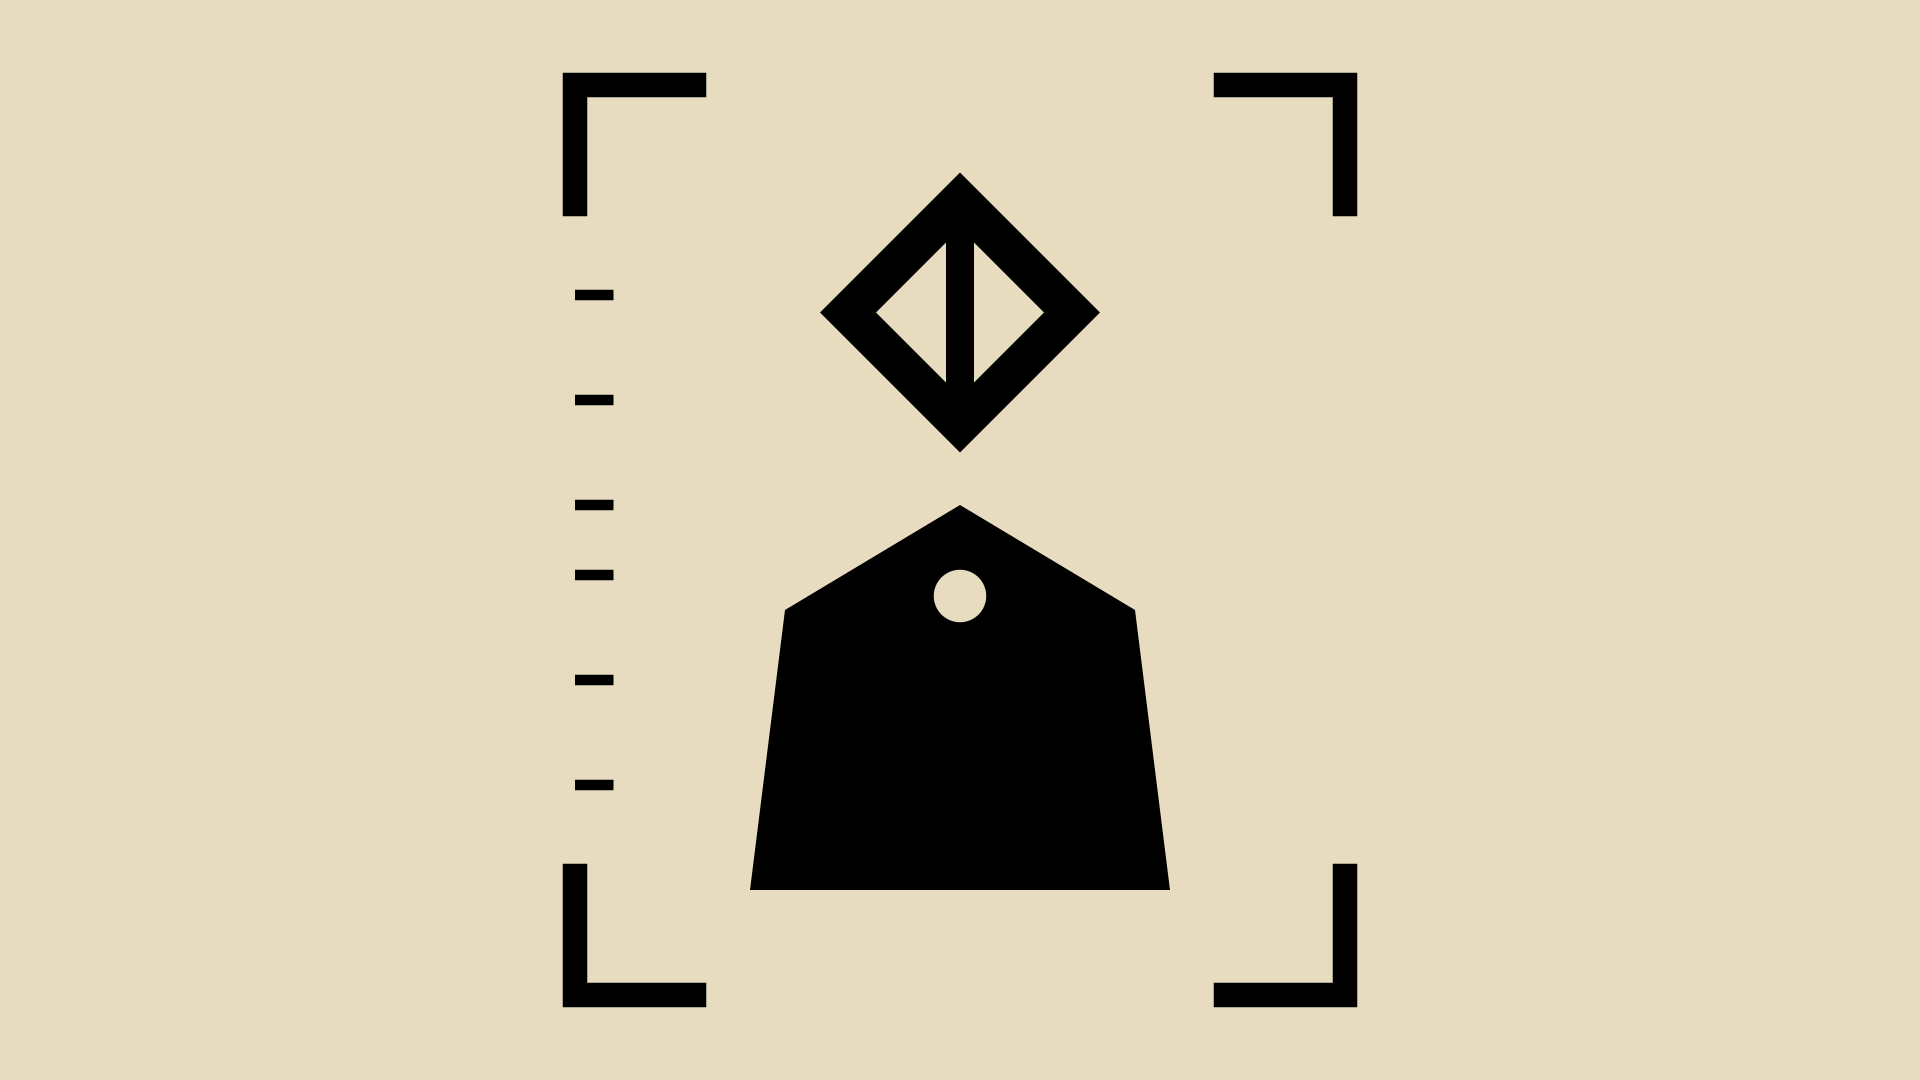
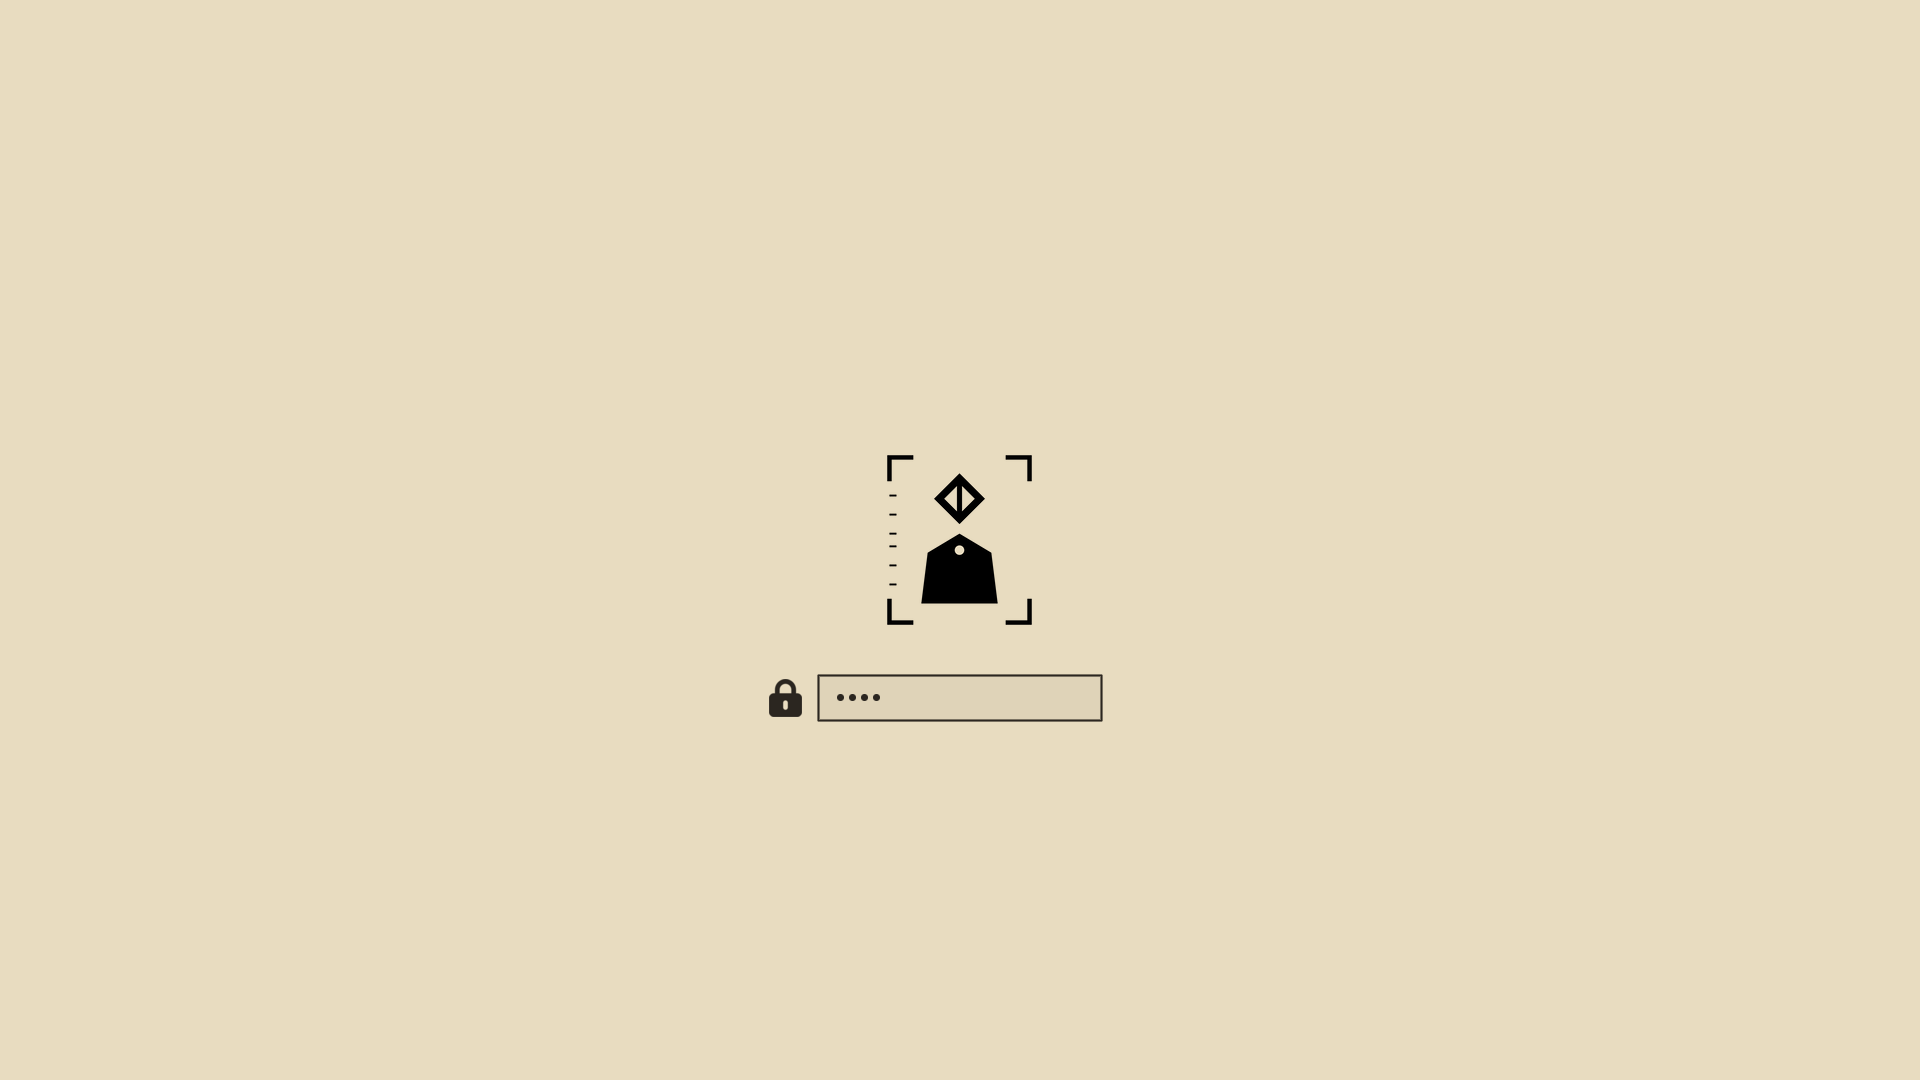
Shrink unlock badge to 800x188 so the Plymouth password box stays on screen (#1)
Omarchy's Plymouth script draws logo.png at native size, centered, and
puts the disk-unlock password box at logo-bottom + 40px. The stock logo
is 800x188; this badge was 896x1036, which pushes the box to roughly
screen-height/2 + 558px, i.e. off the bottom of any screen under ~1120px
tall. On an encrypted install the unlock prompt could be invisible at
boot.

Scale the badge to the stock 188px height and center it on a transparent
800x188 canvas so the layout matches Omarchy's default. Regenerate
preview-unlock.png (now showing the password box) and document the
constraint in the README.

diff --git a/README.md b/README.md
@@ -82,6 +82,19 @@ omarchy plymouth set-by-theme yorha
 shows in the theme picker, generated by compositing `unlock.png` with the
 theme's colors via `omarchy plymouth preview`.
 
+**Why `unlock.png` is 800×188:** Omarchy's Plymouth script does not scale the
+logo — it draws it at its native pixel size, centered, and places the disk-
+unlock password box at `logo bottom + 40px`. The stock Omarchy logo is
+800×188, so that layout always fits. An earlier version of this badge was
+896×1036 (portrait), which puts the password box at roughly `screen height / 2
++ 558px` — off the bottom edge on any screen shorter than ~1120px, including
+a 1080p framebuffer, so on an encrypted install the unlock prompt could be
+invisible at boot. To avoid that, `unlock.png` is now the badge scaled to the
+stock 188px height and centered on a transparent 800×188 canvas, which
+reproduces Omarchy's default layout exactly. If you replace `unlock.png`,
+keep it at or near 800×188 — the height is what matters, and anything much
+taller than ~500px risks the same problem on smaller displays.
+
 **About the artwork:** `unlock.png` is an original geometric badge (bracket
 frame, tick scale, a split diamond over a pentagon "bunker" silhouette) —
 not the actual YoRHa emblem from *NieR: Automata*. It was designed from
